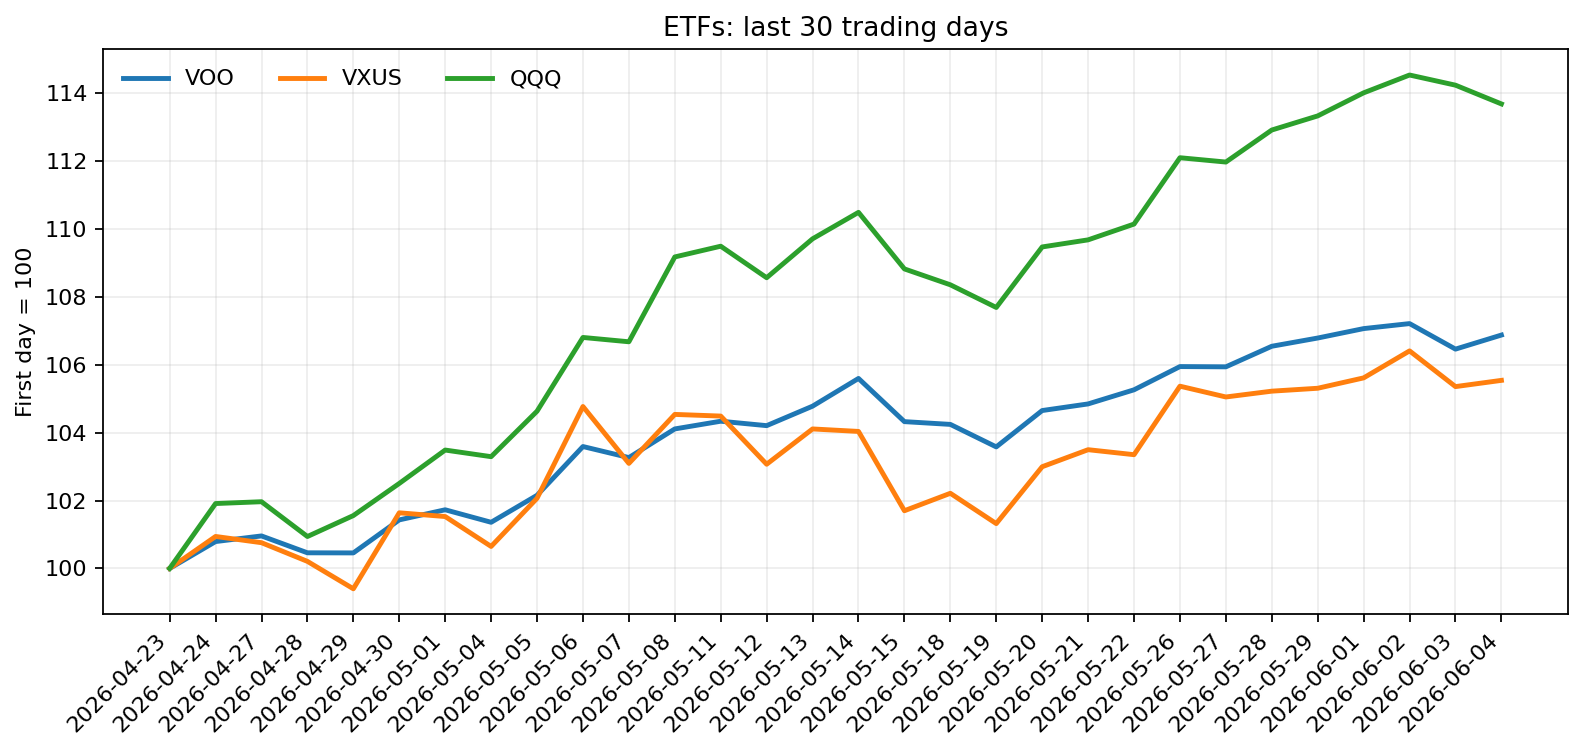
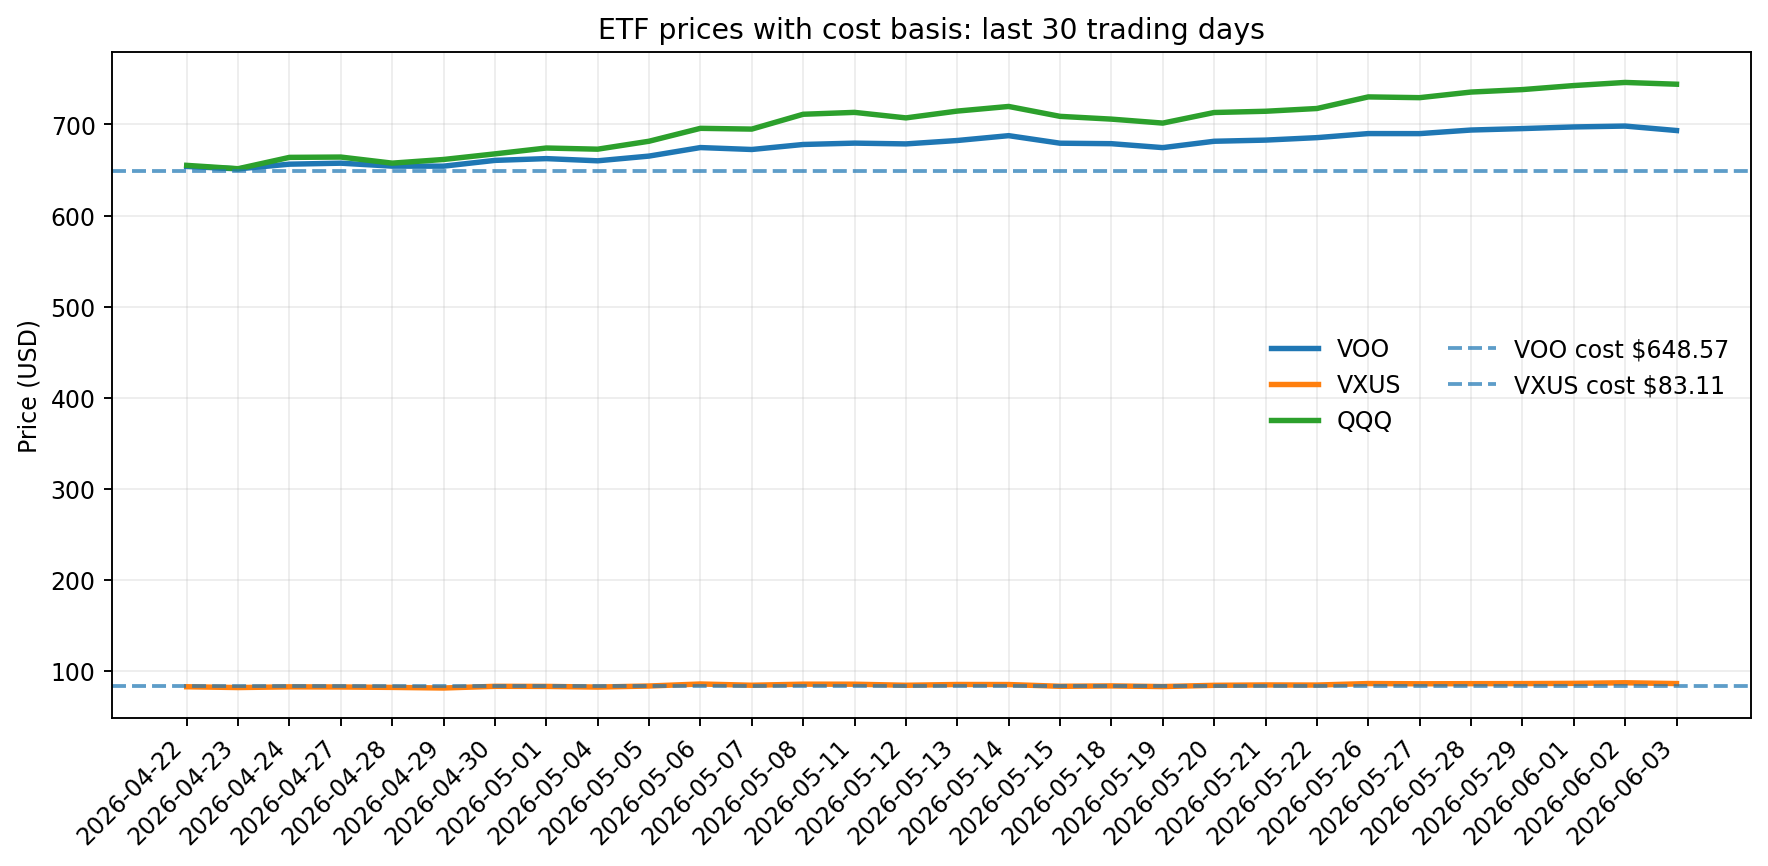
Publish daily stock report

diff --git a/docs/index.html b/docs/index.html
@@ -5,25 +5,25 @@ body{margin:0;background:#f3f6f9;color:var(--ink);font:15px/1.65 -apple-system,B
 main{max-width:1080px;margin:auto;background:white;min-height:100vh;padding:28px}h1{margin:0;font-size:28px}h2{margin:28px 0 12px;border-bottom:1px solid var(--line);padding-bottom:8px;font-size:20px}
 .meta{color:var(--muted)}.metrics,.holdings,.charts{display:grid;gap:14px}.metrics{grid-template-columns:repeat(3,1fr)}.holdings{grid-template-columns:repeat(3,1fr)}
 .metric,.holding,.note{border:1px solid var(--line);border-radius:6px;padding:14px;background:#fff}.metric b{display:block;font-size:21px}h3{margin:0 0 9px}h3 span{float:right;color:var(--blue)}
-dl{display:grid;grid-template-columns:auto 1fr;gap:2px 10px;margin:0}dt{color:var(--muted)}dd{margin:0;text-align:right}.charts{grid-template-columns:repeat(2,1fr)}figure{margin:0;border:1px solid var(--line);padding:9px;border-radius:6px}img{width:100%;height:auto;display:block}
+dl{display:grid;grid-template-columns:auto 1fr;gap:2px 10px;margin:0}dt{color:var(--muted)}dd{margin:0;text-align:right}.charts{grid-template-columns:1fr}figure{margin:0;border:1px solid var(--line);padding:9px;border-radius:6px}img{width:100%;height:auto;display:block}
 .signal{border-left:4px solid var(--green);background:#f0fdf4;padding:12px 15px}.history a{display:inline-block;margin:0 9px 7px 0}ul{padding-left:20px}
 @media(max-width:760px){main{padding:18px}h1{font-size:23px}.metrics,.holdings,.charts{grid-template-columns:1fr}}
 </style></head><body><main><header><h1>美股情报简报</h1><div class="meta">2026-06-05｜昨晚收盘</div></header>
-<h2>大盘</h2><div class="metrics"><div class="metric">标普500<b>7,584.31</b><span>+0.41%</span></div><div class="metric">道指<b>51,561.93</b><span>+1.73%</span></div><div class="metric">纳指<b>26,830.96</b><span>-0.09%</span></div></div><p>市场仍是结构分化。道指强，标普稳，纳指和QQQ偏弱。说明资金在往防御和非科技轮动，不是全面风险偏好上升。NVDA当天走强，但QQQ下跌，表示AI权重股内部有分歧，芯片反弹还没带动大盘科技重新占优。</p>
-<h2>AI</h2><div class="metrics"><div class="metric">NVDA<b>218.66</b><span>+1.82%</span></div><div class="metric">QQQ<b>740.61</b><span>-0.48%</span></div></div><p>AI链条短线没有失去故事，但交易上更像分歧修复，不是确认性趋势。NVDA强于QQQ是积极信号，但Broadcom后遗症、亚洲芯片走弱和科技 futures 偏软，说明AI板块仍受估值和预期扰动。对QQQ应保持谨慎，等它重新跑赢标普再加仓更稳。</p>
-<h2>宏观</h2><ul><li>Dow Jones futures and Dow hit high: 资金继续偏向传统板块和非科技。</li><li>May jobs report loom: 就业数据前市场容易缩手，波动可能放大。只能按标题理解为短期观望。」「Broadcom forecast dampens AI sentiment: AI和半导体情绪仍受压。</li></ul><p>宏观和新闻标题共同指向：短线风险偏好不均衡，科技/芯片仍承压，价值和金融更占优。对个人组合来说，防守性资产和宽基仍比追逐高贝塔科技更合适。</p>
-<h2>ETF</h2><div class="holdings"><article class="holding"><h3>VOO<span>$696.06</span></h3>
+<h2>大盘</h2><div class="metrics"><div class="metric">标普500<b>7,553.68</b><span>-0.74%</span></div><div class="metric">道指<b>50,687.07</b><span>-1.21%</span></div><div class="metric">纳指<b>26,853.98</b><span>-0.89%</span></div></div><p>市场偏弱，且是‘成长股带头回撤’的弱势日。标普、道指、纳指都跌，NVDA 跌幅明显大于 QQQ，说明 AI/半导体链条的压力比大盘更重。QQQ 只小跌，说明权重股还在托底，但内部结构不强。</p>
+<h2>AI</h2><div class="metrics"><div class="metric">NVDA<b>214.75</b><span>-3.62%</span></div><div class="metric">QQQ<b>744.21</b><span>-0.26%</span></div></div><p>短线对 AI/芯片偏谨慎。NVDA 大跌会压制 QQQ 情绪，今天更像是高估值成长股去杠杆，不适合追涨科技仓。新闻里只有‘Robotics 可能是新方向’这种偏中长期叙事，不能当作短线止跌信号。</p>
+<h2>宏观</h2><ul><li>美股三大指数同步回落，风险偏好下降。</li><li>NVDA -3.62%，弱于 QQQ -0.26%，说明科技内部是‘芯片更弱、指数相对抗跌’。小心 QQQ 继续被 NVDA 拖累。</li></ul><p>宏观和风格上都不支持激进加仓成长。当前更适合把新资金优先放在宽基分散，等 NVDA/QQQ 重新走强后再考虑提高科技配置。</p>
+<h2>ETF</h2><div class="holdings"><article class="holding"><h3>VOO<span>$693.36</span></h3>
 <dl><dt>持仓</dt><dd>0.4 股</dd><dt>平均成本</dt><dd>$648.57</dd>
-<dt>当前市值</dt><dd>$278.42</dd><dt>浮盈亏</dt><dd>+7.32% / +19.00美元</dd></dl>
-<p>偏正面。标普上涨，宽基仍稳，是当前组合里最可靠的核心仓位。</p></article><article class="holding"><h3>VXUS<span>$86.25</span></h3>
+<dt>当前市值</dt><dd>$277.34</dd><dt>浮盈亏</dt><dd>+6.91% / +17.92美元</dd></dl>
+<p>相对稳，适合继续作为核心仓。今天跌幅不大，能用来承接新资金。</p></article><article class="holding"><h3>VXUS<span>$86.10</span></h3>
 <dl><dt>持仓</dt><dd>3 股</dd><dt>平均成本</dt><dd>$83.11</dd>
-<dt>当前市值</dt><dd>$258.75</dd><dt>浮盈亏</dt><dd>+3.78% / +9.42美元</dd></dl>
-<p>中性偏正面。海外资产小涨，但新闻里亚洲科技受压，VXUS更适合维持小比例分散，不宜主动加太快。</p></article><article class="holding"><h3>QQQ<span>$740.61</span></h3>
+<dt>当前市值</dt><dd>$258.30</dd><dt>浮盈亏</dt><dd>+3.60% / +8.97美元</dd></dl>
+<p>也在回撤，但更多是整体风险偏好影响，不是单一主题冲击。可继续按计划配置。</p></article><article class="holding"><h3>QQQ<span>$744.21</span></h3>
 <dl><dt>持仓</dt><dd>0 股</dd><dt>平均成本</dt><dd>$0.00</dd>
 <dt>当前市值</dt><dd>$0.00</dd><dt>浮盈亏</dt><dd>暂无持仓</dd></dl>
-<p>偏谨慎。指数当天回落，且新闻显示科技和AI情绪分歧明显。只有在QQQ重新走强并确认强于标普后，才适合加仓。</p></article></div>
-<h2>资金配置提醒</h2><div class="metrics"><div class="metric">目标组合<b>VOO 60%</b><span>QQQ 25% / VXUS 15%</span></div><div class="metric">当前已投入<b>$508.76</b><span>计划总资金 $3000</span></div><div class="metric">组合浮盈亏<b>+28.41美元</b><span>当前市值 $537.17</span></div></div>
-<p class="signal"><b>当前强买入信号：</b>没有出现。当前没有足够强的“全面买入”信号，尤其对QQQ和芯片链条。<br><b>当前可执行信号：</b>有可执行信号：继续按目标仓位补VOO，不追QQQ；若当天只能买一笔，优先VOO，其次小额VXUS，QQQ等待确认转强。</p>
-<h2>下一笔优先级</h2><ol><li><b>VOO</b>：优先补到目标权重附近。它是当前最稳的核心资产。</li><li><b>QQQ</b>：暂缓主动加仓，等QQQ相对标普转强后再补。</li><li><b>VXUS</b>：维持配置即可，按分散思路慢补，不追涨。</li></ol><h2>今日动作</h2><ul><li><b>VOO</b>：若今天有买入额度，优先买VOO。当前仓位离目标差距最大，且市场主线更偏宽基防守。</li><li><b>VXUS</b>：可少量补，但优先级低于VOO。</li><li><b>QQQ</b>：今天不主动买。除非你明确想做小仓位试探，否则继续等待。</li><li><b>新资金</b>：新资金优先分配给VOO，其次VXUS；QQQ留到趋势确认后再进。</li><li><b>止盈提醒</b>：不用急着止盈。当前总仓位盈利不高，且QQQ未形成强趋势，不建议为了短线波动做减仓。</li></ul>
-<h2>图表</h2><div class="charts"><figure><img src="assets/2026-06-05/indices.png" alt="主要指数走势"></figure><figure><img src="assets/2026-06-05/ai.png" alt="AI科技走势"></figure><figure><img src="assets/2026-06-05/etfs.png" alt="ETF走势"></figure><figure><img src="assets/2026-06-05/allocation.png" alt="组合配置"></figure><figure><img src="assets/2026-06-05/pnl.png" alt="持仓盈亏"></figure></div>
-<h2>历史日报</h2><nav class="history"></nav></main></body></html>
+<p>短线偏弱，不宜追。NVDA 明显拖累科技情绪，QQQ 还没显示出强势反转。</p></article></div>
+<h2>资金配置提醒</h2><div class="metrics"><div class="metric">目标组合<b>VOO 60%</b><span>QQQ 25% / VXUS 15%</span></div><div class="metric">当前已投入<b>$508.76</b><span>计划总资金 $3000</span></div><div class="metric">组合浮盈亏<b>+26.88美元</b><span>当前市值 $535.64</span></div></div>
+<p class="signal"><b>当前强买入信号：</b>没有强买信号。当前只看到‘宽基可分批买、QQQ 暂缓追高’的信号。<br><b>当前可执行信号：</b>有小额执行信号：若今天必须买，只优先补 VOO，其次 VXUS；QQQ 先等 NVDA 止跌、QQQ 转强再说。</p>
+<h2>下一笔优先级</h2><ol><li><b>VOO</b>：继续补到目标权重附近，优先级最高。</li><li><b>QQQ</b>：观察 1-3 个交易日，重点看 NVDA 是否止跌和 QQQ 是否收回弱势。</li><li><b>VXUS</b>：按计划慢慢补，不追涨不恐慌。</li></ol><h2>今日动作</h2><ul><li><b>VOO</b>：可以小额买入，作为今天的主要加仓对象。</li><li><b>VXUS</b>：可少量补仓，维持目标配置。</li><li><b>QQQ</b>：今天先不加，等科技板块企稳再说。</li><li><b>新资金</b>：新资金优先分配给 VOO，其次 VXUS；QQQ 暂缓。</li><li><b>止盈提醒</b>：不建议在当前位置做主动止盈；仓位不重，先看持仓结构修复。</li></ul>
+<h2>ETF 走势与成本线</h2><div class="charts"><figure class="wide-chart"><img src="assets/2026-06-05/etfs.png" alt="ETF 走势与成本线"></figure></div>
+<h2>历史日报</h2><nav class="history"><a href="reports/2026-06-05.html">2026-06-05</a></nav></main></body></html>

diff --git a/docs/reports/2026-06-05.html b/docs/reports/2026-06-05.html
@@ -5,25 +5,25 @@ body{margin:0;background:#f3f6f9;color:var(--ink);font:15px/1.65 -apple-system,B
 main{max-width:1080px;margin:auto;background:white;min-height:100vh;padding:28px}h1{margin:0;font-size:28px}h2{margin:28px 0 12px;border-bottom:1px solid var(--line);padding-bottom:8px;font-size:20px}
 .meta{color:var(--muted)}.metrics,.holdings,.charts{display:grid;gap:14px}.metrics{grid-template-columns:repeat(3,1fr)}.holdings{grid-template-columns:repeat(3,1fr)}
 .metric,.holding,.note{border:1px solid var(--line);border-radius:6px;padding:14px;background:#fff}.metric b{display:block;font-size:21px}h3{margin:0 0 9px}h3 span{float:right;color:var(--blue)}
-dl{display:grid;grid-template-columns:auto 1fr;gap:2px 10px;margin:0}dt{color:var(--muted)}dd{margin:0;text-align:right}.charts{grid-template-columns:repeat(2,1fr)}figure{margin:0;border:1px solid var(--line);padding:9px;border-radius:6px}img{width:100%;height:auto;display:block}
+dl{display:grid;grid-template-columns:auto 1fr;gap:2px 10px;margin:0}dt{color:var(--muted)}dd{margin:0;text-align:right}.charts{grid-template-columns:1fr}figure{margin:0;border:1px solid var(--line);padding:9px;border-radius:6px}img{width:100%;height:auto;display:block}
 .signal{border-left:4px solid var(--green);background:#f0fdf4;padding:12px 15px}.history a{display:inline-block;margin:0 9px 7px 0}ul{padding-left:20px}
 @media(max-width:760px){main{padding:18px}h1{font-size:23px}.metrics,.holdings,.charts{grid-template-columns:1fr}}
 </style></head><body><main><header><h1>美股情报简报</h1><div class="meta">2026-06-05｜昨晚收盘</div></header>
-<h2>大盘</h2><div class="metrics"><div class="metric">标普500<b>7,584.31</b><span>+0.41%</span></div><div class="metric">道指<b>51,561.93</b><span>+1.73%</span></div><div class="metric">纳指<b>26,830.96</b><span>-0.09%</span></div></div><p>市场仍是结构分化。道指强，标普稳，纳指和QQQ偏弱。说明资金在往防御和非科技轮动，不是全面风险偏好上升。NVDA当天走强，但QQQ下跌，表示AI权重股内部有分歧，芯片反弹还没带动大盘科技重新占优。</p>
-<h2>AI</h2><div class="metrics"><div class="metric">NVDA<b>218.66</b><span>+1.82%</span></div><div class="metric">QQQ<b>740.61</b><span>-0.48%</span></div></div><p>AI链条短线没有失去故事，但交易上更像分歧修复，不是确认性趋势。NVDA强于QQQ是积极信号，但Broadcom后遗症、亚洲芯片走弱和科技 futures 偏软，说明AI板块仍受估值和预期扰动。对QQQ应保持谨慎，等它重新跑赢标普再加仓更稳。</p>
-<h2>宏观</h2><ul><li>Dow Jones futures and Dow hit high: 资金继续偏向传统板块和非科技。</li><li>May jobs report loom: 就业数据前市场容易缩手，波动可能放大。只能按标题理解为短期观望。」「Broadcom forecast dampens AI sentiment: AI和半导体情绪仍受压。</li></ul><p>宏观和新闻标题共同指向：短线风险偏好不均衡，科技/芯片仍承压，价值和金融更占优。对个人组合来说，防守性资产和宽基仍比追逐高贝塔科技更合适。</p>
-<h2>ETF</h2><div class="holdings"><article class="holding"><h3>VOO<span>$696.06</span></h3>
+<h2>大盘</h2><div class="metrics"><div class="metric">标普500<b>7,553.68</b><span>-0.74%</span></div><div class="metric">道指<b>50,687.07</b><span>-1.21%</span></div><div class="metric">纳指<b>26,853.98</b><span>-0.89%</span></div></div><p>市场偏弱，且是‘成长股带头回撤’的弱势日。标普、道指、纳指都跌，NVDA 跌幅明显大于 QQQ，说明 AI/半导体链条的压力比大盘更重。QQQ 只小跌，说明权重股还在托底，但内部结构不强。</p>
+<h2>AI</h2><div class="metrics"><div class="metric">NVDA<b>214.75</b><span>-3.62%</span></div><div class="metric">QQQ<b>744.21</b><span>-0.26%</span></div></div><p>短线对 AI/芯片偏谨慎。NVDA 大跌会压制 QQQ 情绪，今天更像是高估值成长股去杠杆，不适合追涨科技仓。新闻里只有‘Robotics 可能是新方向’这种偏中长期叙事，不能当作短线止跌信号。</p>
+<h2>宏观</h2><ul><li>美股三大指数同步回落，风险偏好下降。</li><li>NVDA -3.62%，弱于 QQQ -0.26%，说明科技内部是‘芯片更弱、指数相对抗跌’。小心 QQQ 继续被 NVDA 拖累。</li></ul><p>宏观和风格上都不支持激进加仓成长。当前更适合把新资金优先放在宽基分散，等 NVDA/QQQ 重新走强后再考虑提高科技配置。</p>
+<h2>ETF</h2><div class="holdings"><article class="holding"><h3>VOO<span>$693.36</span></h3>
 <dl><dt>持仓</dt><dd>0.4 股</dd><dt>平均成本</dt><dd>$648.57</dd>
-<dt>当前市值</dt><dd>$278.42</dd><dt>浮盈亏</dt><dd>+7.32% / +19.00美元</dd></dl>
-<p>偏正面。标普上涨，宽基仍稳，是当前组合里最可靠的核心仓位。</p></article><article class="holding"><h3>VXUS<span>$86.25</span></h3>
+<dt>当前市值</dt><dd>$277.34</dd><dt>浮盈亏</dt><dd>+6.91% / +17.92美元</dd></dl>
+<p>相对稳，适合继续作为核心仓。今天跌幅不大，能用来承接新资金。</p></article><article class="holding"><h3>VXUS<span>$86.10</span></h3>
 <dl><dt>持仓</dt><dd>3 股</dd><dt>平均成本</dt><dd>$83.11</dd>
-<dt>当前市值</dt><dd>$258.75</dd><dt>浮盈亏</dt><dd>+3.78% / +9.42美元</dd></dl>
-<p>中性偏正面。海外资产小涨，但新闻里亚洲科技受压，VXUS更适合维持小比例分散，不宜主动加太快。</p></article><article class="holding"><h3>QQQ<span>$740.61</span></h3>
+<dt>当前市值</dt><dd>$258.30</dd><dt>浮盈亏</dt><dd>+3.60% / +8.97美元</dd></dl>
+<p>也在回撤，但更多是整体风险偏好影响，不是单一主题冲击。可继续按计划配置。</p></article><article class="holding"><h3>QQQ<span>$744.21</span></h3>
 <dl><dt>持仓</dt><dd>0 股</dd><dt>平均成本</dt><dd>$0.00</dd>
 <dt>当前市值</dt><dd>$0.00</dd><dt>浮盈亏</dt><dd>暂无持仓</dd></dl>
-<p>偏谨慎。指数当天回落，且新闻显示科技和AI情绪分歧明显。只有在QQQ重新走强并确认强于标普后，才适合加仓。</p></article></div>
-<h2>资金配置提醒</h2><div class="metrics"><div class="metric">目标组合<b>VOO 60%</b><span>QQQ 25% / VXUS 15%</span></div><div class="metric">当前已投入<b>$508.76</b><span>计划总资金 $3000</span></div><div class="metric">组合浮盈亏<b>+28.41美元</b><span>当前市值 $537.17</span></div></div>
-<p class="signal"><b>当前强买入信号：</b>没有出现。当前没有足够强的“全面买入”信号，尤其对QQQ和芯片链条。<br><b>当前可执行信号：</b>有可执行信号：继续按目标仓位补VOO，不追QQQ；若当天只能买一笔，优先VOO，其次小额VXUS，QQQ等待确认转强。</p>
-<h2>下一笔优先级</h2><ol><li><b>VOO</b>：优先补到目标权重附近。它是当前最稳的核心资产。</li><li><b>QQQ</b>：暂缓主动加仓，等QQQ相对标普转强后再补。</li><li><b>VXUS</b>：维持配置即可，按分散思路慢补，不追涨。</li></ol><h2>今日动作</h2><ul><li><b>VOO</b>：若今天有买入额度，优先买VOO。当前仓位离目标差距最大，且市场主线更偏宽基防守。</li><li><b>VXUS</b>：可少量补，但优先级低于VOO。</li><li><b>QQQ</b>：今天不主动买。除非你明确想做小仓位试探，否则继续等待。</li><li><b>新资金</b>：新资金优先分配给VOO，其次VXUS；QQQ留到趋势确认后再进。</li><li><b>止盈提醒</b>：不用急着止盈。当前总仓位盈利不高，且QQQ未形成强趋势，不建议为了短线波动做减仓。</li></ul>
-<h2>图表</h2><div class="charts"><figure><img src="assets/2026-06-05/indices.png" alt="主要指数走势"></figure><figure><img src="assets/2026-06-05/ai.png" alt="AI科技走势"></figure><figure><img src="assets/2026-06-05/etfs.png" alt="ETF走势"></figure><figure><img src="assets/2026-06-05/allocation.png" alt="组合配置"></figure><figure><img src="assets/2026-06-05/pnl.png" alt="持仓盈亏"></figure></div>
-<h2>历史日报</h2><nav class="history"></nav></main></body></html>
+<p>短线偏弱，不宜追。NVDA 明显拖累科技情绪，QQQ 还没显示出强势反转。</p></article></div>
+<h2>资金配置提醒</h2><div class="metrics"><div class="metric">目标组合<b>VOO 60%</b><span>QQQ 25% / VXUS 15%</span></div><div class="metric">当前已投入<b>$508.76</b><span>计划总资金 $3000</span></div><div class="metric">组合浮盈亏<b>+26.88美元</b><span>当前市值 $535.64</span></div></div>
+<p class="signal"><b>当前强买入信号：</b>没有强买信号。当前只看到‘宽基可分批买、QQQ 暂缓追高’的信号。<br><b>当前可执行信号：</b>有小额执行信号：若今天必须买，只优先补 VOO，其次 VXUS；QQQ 先等 NVDA 止跌、QQQ 转强再说。</p>
+<h2>下一笔优先级</h2><ol><li><b>VOO</b>：继续补到目标权重附近，优先级最高。</li><li><b>QQQ</b>：观察 1-3 个交易日，重点看 NVDA 是否止跌和 QQQ 是否收回弱势。</li><li><b>VXUS</b>：按计划慢慢补，不追涨不恐慌。</li></ol><h2>今日动作</h2><ul><li><b>VOO</b>：可以小额买入，作为今天的主要加仓对象。</li><li><b>VXUS</b>：可少量补仓，维持目标配置。</li><li><b>QQQ</b>：今天先不加，等科技板块企稳再说。</li><li><b>新资金</b>：新资金优先分配给 VOO，其次 VXUS；QQQ 暂缓。</li><li><b>止盈提醒</b>：不建议在当前位置做主动止盈；仓位不重，先看持仓结构修复。</li></ul>
+<h2>ETF 走势与成本线</h2><div class="charts"><figure class="wide-chart"><img src="assets/2026-06-05/etfs.png" alt="ETF 走势与成本线"></figure></div>
+<h2>历史日报</h2><nav class="history"><a href="reports/2026-06-05.html">2026-06-05</a></nav></main></body></html>
